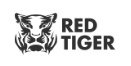
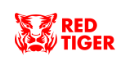
TGS-793: fulfill UI request.

Changed region(s): [[0.0916, 0.1818, 0.8855, 0.8485]]

diff --git a/src/components/App/Slots/index.js b/src/components/App/Slots/index.js
@@ -101,7 +101,7 @@ const GameTab = styled.div`
   z-index: 1;
   filter: ${(props) =>
     props.active === true
-      ? `brightness(500%) grayscale(100%);`
+      ? `brightness(100%) grayscale(100%);`
       : `brightness(50%) grayscale(100%);`};
   margin: 0 auto;
   background: url(${(props) =>
@@ -210,7 +210,7 @@ const GameTabButton = styled.div`
       no-repeat;
       background-position: center;
       background-size: contain;
-    filter: brightness(500%) grayscale(100%);
+    filter: brightness(100%) grayscale(100%);
     transition: filter 3s;
   }
   &:hover ${GameTabAll} {
@@ -218,7 +218,7 @@ const GameTabButton = styled.div`
       no-repeat;
       background-position: center;
       background-size: contain;
-    filter: brightness(500%) grayscale(100%);
+    filter: brightness(100%) grayscale(100%);
     transition: filter 1s;
   }
 `;

diff --git a/src/components/App/Fishing/index.js b/src/components/App/Fishing/index.js
@@ -67,7 +67,7 @@ const GameTab = styled.div`
   z-index: 1;
   filter: ${(props) =>
     props.active === true
-      ? `brightness(500%) grayscale(100%);`
+      ? `brightness(100%) grayscale(100%);`
       : `brightness(50%) grayscale(100%);`};
   margin: 0 auto;
   background: url(${(props) =>
@@ -176,7 +176,7 @@ const GameTabButton = styled.div`
       no-repeat;
       background-position: center;
       background-size: contain;
-    filter: brightness(500%) grayscale(100%);
+    filter: brightness(100%) grayscale(100%);
     transition: filter 3s;
   }
   &:hover ${GameTabAll} {
@@ -184,7 +184,7 @@ const GameTabButton = styled.div`
       no-repeat;
       background-position: center;
       background-size: contain;
-    filter: brightness(500%) grayscale(100%);
+    filter: brightness(100%) grayscale(100%);
     transition: filter 1s;
   }
 `;

diff --git a/src/components/App/Register.js b/src/components/App/Register.js
@@ -261,8 +261,7 @@ const Description = styled.div`
   font-size: 14px;
 
   line-height: 1.43;
-
-  color: ${({ theme }) => theme.secondary};
+  opacity: 0.75;
 `;
 
 const useStyles = makeStyles((theme) => ({

diff --git a/src/components/App/Home/PopupAnnouncement.js b/src/components/App/Home/PopupAnnouncement.js
@@ -36,7 +36,7 @@ const CloseIconContainer = styled.div`
 `;
 const TitleContainer = styled.div`
   text-align: center;
-
+  color: #000;
   font-size: 30px;
 `;
 const FormContainer = styled.div`

diff --git a/src/components/App/ForgotPasswordPhone.js b/src/components/App/ForgotPasswordPhone.js
@@ -37,7 +37,7 @@ const TitleContainer = styled.div`
 
   font-size: 42px;
 
-  color: ${({ theme }) => theme.secondary};
+  color: #000;
 `;
 
 const FormContainer = styled.div`
